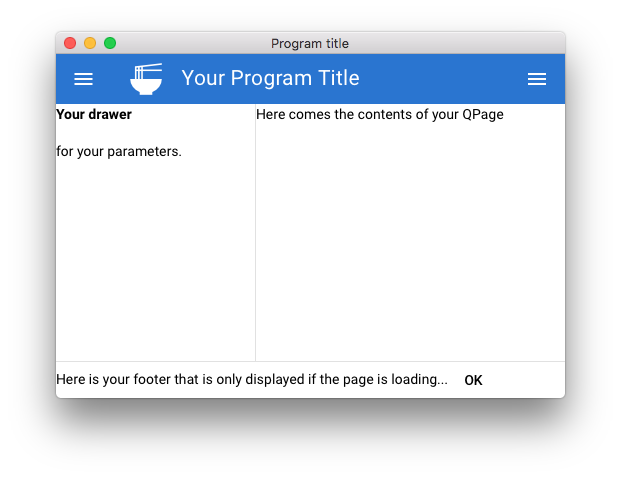
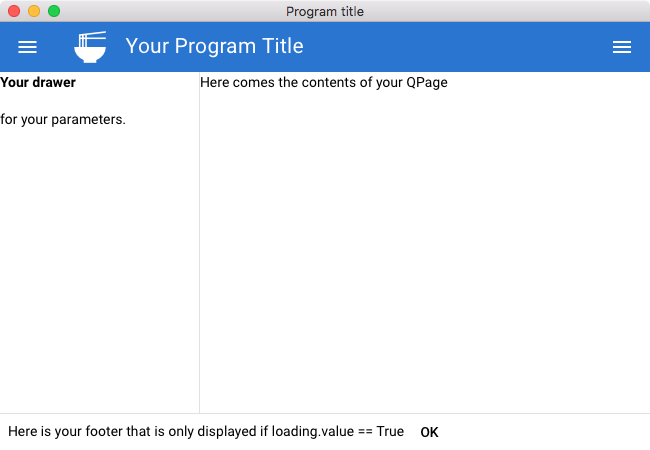
transitions to a different screenshot style in docs (WIP) - and improves QFooter code

diff --git a/docs/stylesheets/extra.css b/docs/stylesheets/extra.css
@@ -2,9 +2,26 @@ body[data-md-color-scheme=slate]{
     background: black;
 }
 
+
+img[src*="#screenshot"]{
+    /* margin-top: 15px; */
+    border: 1px solid #ddd;
+    border-radius: 5px;
+    box-shadow: 1px 3px 10px 0px #eee;
+}
+
 figure img{
-    margin: 0 auto
+    margin: 0 auto;
+    margin-top: 15px;
 }
 figcaption em{
     font-style: normal;
+}
+figcaption{
+    margin-top: 30px!important;
+    margin-bottom: 0!important;
+}
+
+.tabbed-set .highlight{
+    margin: 30px 15px;
 }

diff --git a/quasargui/layout.py b/quasargui/layout.py
@@ -204,7 +204,7 @@ class QFooter(ComponentWithModel):
             'bordered': True,
             'show': True,
         },
-        'classes': 'bg-white text-black'
+        'classes': 'bg-white text-black q-px-sm'
     }
 
     def __init__(self,
@@ -218,14 +218,12 @@ class QFooter(ComponentWithModel):
                  props: PropsType = None,
                  events: EventsType = None
                  ):
-        children = children
         props = build_props(self.defaults['props'], props, {
             'reveal': hide_on_scroll,
             'elevated': elevated,
             'bordered': bordered,
             'show': show,
         })
-        classes = merge_classes(self.defaults['classes'], classes or '')
         show = props['show']
         model = show if isinstance(show, Reactive) else Model(show)
         super().__init__(model=model, children=children, classes=classes, styles=styles, props=props, events=events)

diff --git a/docs/quickstart.md b/docs/quickstart.md
@@ -13,7 +13,9 @@ Now, you're ready to run our first example.
 The simplest possible window only takes 3 lines of code.
 
 === "screenshot"
-    ![The simplest window](assets/screenshots/simplest.png "The simplest window screenshot")
+    <figure>
+    ![The simplest window](assets/screenshots/simplest.png#screenshot "The simplest window screenshot")
+    </figure>
 
 === "source"
     ```python
@@ -36,13 +38,21 @@ Let's move on to a more advanced code that also can be used as a boilerplate for
 To quickly get a nice window layout, you can use the code of the window below.
 
 === "screenshot"
-    ![Quasargui menu header boilerplate](assets/screenshots/starter_header_footer_and_menu.png)
+    <figure>
+    ![Quasargui menu header boilerplate](assets/screenshots/starter_header_footer_and_menu.png#screenshot)
+    </figure>
 
 === "source"
     ```python
+    import quasargui
     from quasargui import *
     
     loading = Model(True)
+    
+    
+    def set_loaded():
+        loading.value = False
+    
     
     layout = QLayout([
         QHeader([
@@ -52,10 +62,20 @@ To quickly get a nice window layout, you can use the code of the window below.
             ])])
         ]),
         QDrawer([
-            '<b>Your drawer</b><div class="q-mt-md">for your parameters.</div>'
+            '<b>'
+            'Your drawer'
+            '</b>'
+            '<div class="q-mt-md">'
+            'for your parameters.'
+            '</div>'
         ]),
         QDrawer(side=QDrawer.RIGHT, show=False, children=[
-            '<b>Your right drawer.</b> If you delete a drawer, its sandwich menu disappears'
+            '<b>'
+            'Your right drawer.'
+            '</b>'
+            '<div class="q-mt-md">'
+            'If you delete a drawer,its sandwich menu disappears'
+            '</div>'
         ]),
         QPage([
             'Here comes the contents of your QPage'
@@ -65,9 +85,11 @@ To quickly get a nice window layout, you can use the code of the window below.
             QFooter(children=[
                 'Here is your footer that is only displayed if loading.value == True',
                 QButton('ok', events={'click': toggle(loading)})
-            ]))
+            ])
+        )
     ])
-    run(layout, title='Program title')
+    
+    quasargui.run(layout, title='Program title')
     ```
 
 The things you need to know about this window:
@@ -126,7 +148,7 @@ In components, Vue's slots can be accessed as `Slot('slot-name', [...children...
 
 === "screenshot"
     <figure>
-    ![Slots example](assets/screenshots/slots_simple.png)
+    ![Slots example](assets/screenshots/slots_simple.png#screenshot)
     <figcaption>
     The map sign of the input field is defined in a slot.
     </figcaption>
@@ -153,7 +175,7 @@ Scoped slots can be accessed a little-bit differently. Since scoped slots are me
 
 === "screenshot"
     <figure>
-    ![Scoped slots example](assets/screenshots/slots_scoped_prop_vars.png)
+    ![Scoped slots example](assets/screenshots/slots_scoped_prop_vars.png#screenshot)
     <figcaption>
     This example is the Quasargui variant of Quasar's [tree example](https://quasar.dev/vue-components/tree#customize-content) where items in the tree view have customized *default-header* and *default-body*.
     </figcaption>
@@ -252,7 +274,7 @@ To see the interactions with `Model` and `Computed`, consider the following exam
 
 === "screenshot"
     <figure>
-    ![Even or odd](assets/screenshots/even_or_odd.png)
+    ![Even or odd](assets/screenshots/even_or_odd.png#screenshot)
     <figcaption>
     If you type a number into *a* or *b*,     
     the window displays "is even" or "is odd",     
@@ -293,7 +315,7 @@ If you want to execute code when a `Model` gets a certain value, you just call `
 
 === "screenshot"
     <figure>
-    ![Accept_conditions](assets/screenshots/accept_conditions.png)
+    ![Accept_conditions](assets/screenshots/accept_conditions.png#screenshot)
     <figcaption>
     When the conditions are accepted, a notification pops up.
     </figcaption>
@@ -321,7 +343,7 @@ Events can be defined on `Components` using the `events` property at constructio
 
 === "screenshot"
     <figure>
-    ![Click event](assets/screenshots/click_event.png)
+    ![Click event](assets/screenshots/click_event.png#screenshot)
     <figcaption>
     When the user clicks the button, a notification pops up.
     </figcaption>
@@ -341,7 +363,7 @@ Quasargui offers a range of notification and dialog options, wrapping [Quasar's 
 
 === "📷 main screen"
     <figure>
-    ![Click event](assets/screenshots/dialogs.png)
+    ![Click event](assets/screenshots/dialogs.png#screenshot)
     <figcaption>
     An extensive example. To check out all the dialogs and grid menus, you can run this example if you copy-paste it into your Python prompt.
     </figcaption>
@@ -349,7 +371,7 @@ Quasargui offers a range of notification and dialog options, wrapping [Quasar's 
 
 === "📷 dark mode"
     <figure>
-    ![Click event](assets/screenshots/dialogs-dark.png)
+    ![Click event](assets/screenshots/dialogs-dark.png#screenshot)
     <figcaption>
     Dark mode can be a breeze. The switch is in the top-right corner.
     </figcaption>
@@ -357,7 +379,7 @@ Quasargui offers a range of notification and dialog options, wrapping [Quasar's 
 
 === "📷 success notification"
     <figure>
-    ![Click event](assets/screenshots/dialogs-alert.png)
+    ![Click event](assets/screenshots/dialogs-alert.png#screenshot)
     <figcaption>
     Notifications can be easily configured (use `your_component.api.plugins.notify()`, with setting keyword arguments besides message). See [Quasar documentation of options][quasardocnotifyapi]; on QuasarConfOptions you can use any option as a keyword argument to `notify()`.  
     </figcaption>
@@ -365,7 +387,7 @@ Quasargui offers a range of notification and dialog options, wrapping [Quasar's 
 
 === "📷 options dialog"
     <figure>
-    ![Click event](assets/screenshots/dialogs-options.png)
+    ![Click event](assets/screenshots/dialogs-options.png#screenshot)
     <figcaption>
     One type of dialog is options dialog. You can have a simple yes-no prompt, a string value input prompt and other custom options.
     </figcaption>
@@ -373,7 +395,7 @@ Quasargui offers a range of notification and dialog options, wrapping [Quasar's 
 
 === "📷 grid menu"
     <figure>
-    ![Click event](assets/screenshots/dialogs-grid_menu.png)
+    ![Click event](assets/screenshots/dialogs-grid_menu.png#screenshot)
     <figcaption>
     A grid menu can nicely de-clog your app.
     </figcaption>
@@ -511,7 +533,7 @@ It can be a bit of a hustle though to set the same options again and again. So, 
 
 === "screenshot"
     <figure>
-    ![Click event](assets/screenshots/defaults.png)
+    ![Click event](assets/screenshots/defaults.png#screenshot)
     <figcaption>
     An alternative styling for form elements. Check out the code to see how styles can be set.
     </figcaption>
